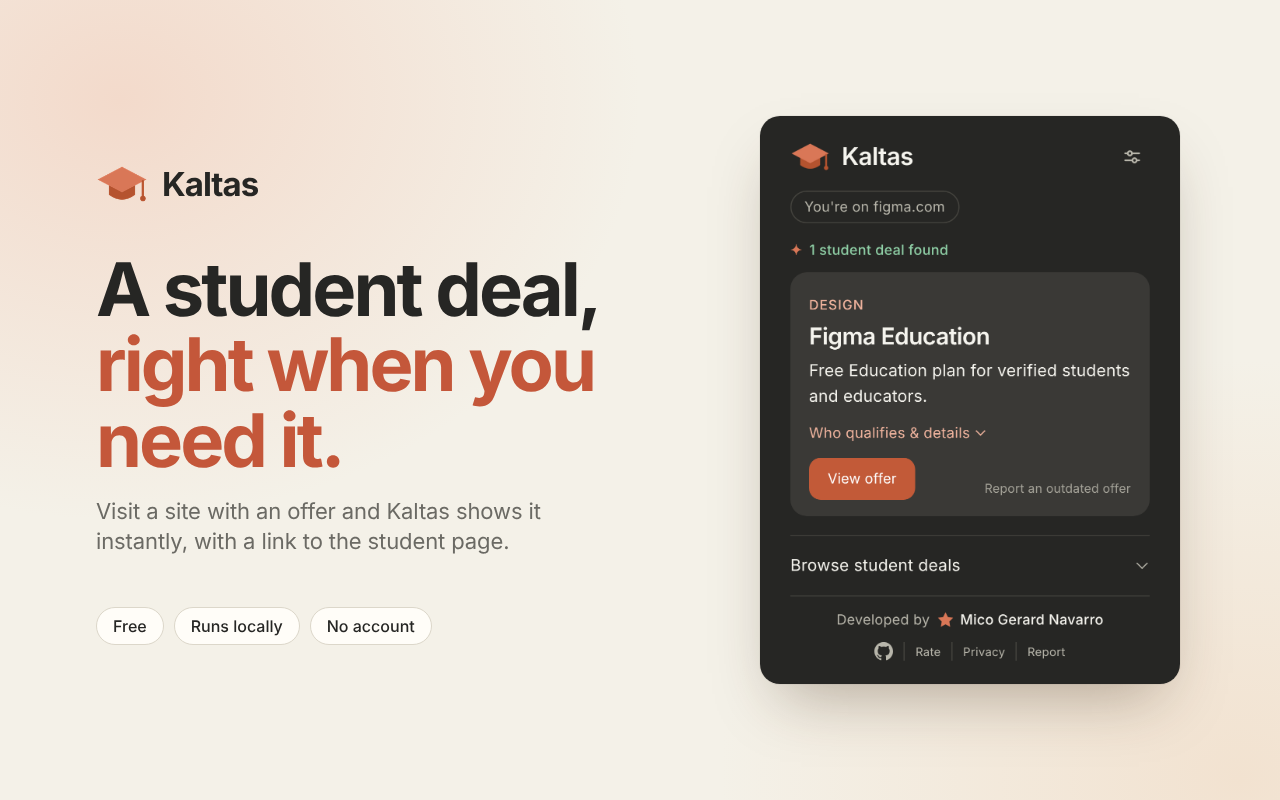
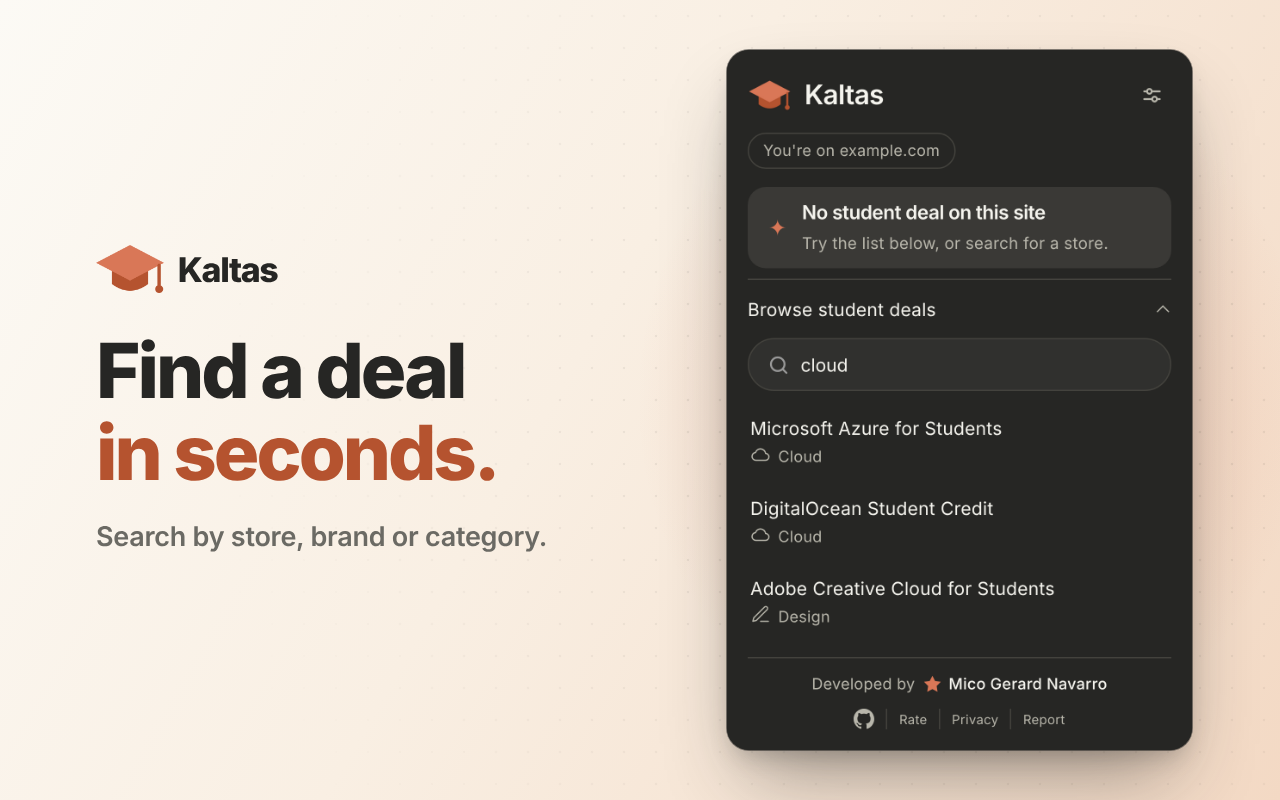
chore: update kaltas screenshots

diff --git a/index.html b/index.html
@@ -45,9 +45,9 @@
       <article class="item reveal">
         <div class="frame  carousel" role="group" aria-roledescription="carousel" aria-label="Kaltas screenshots">
 <div class="slides" tabindex="0" aria-label="Kaltas screenshots. Use the left and right arrow keys to browse.">
-<div class="slide"><img src="/images/projects/kaltas-1.png" width="1280" height="800" alt="Kaltas popup on a site with no student deal, with the Browse student deals list open."></div>
-<div class="slide"><img src="/images/projects/kaltas-2.png" width="1280" height="800" loading="lazy" alt="Kaltas popup on a site with no student deal, searching the Browse student deals list for design."></div>
-<div class="slide"><img src="/images/projects/kaltas-3.png" width="1280" height="800" loading="lazy" alt="Kaltas popup on figma.com showing the Figma Education student deal with a View offer button."></div>
+<div class="slide"><img src="/images/projects/kaltas-1.png" width="1280" height="800" alt="Kaltas popup on github.com showing the GitHub Student Developer Pack deal with a View offer button."></div>
+<div class="slide"><img src="/images/projects/kaltas-2.png" width="1280" height="800" loading="lazy" alt="Kaltas popup on a site with no student deal, with the Browse student deals list open."></div>
+<div class="slide"><img src="/images/projects/kaltas-3.png" width="1280" height="800" loading="lazy" alt="Kaltas popup searching the Browse student deals list for cloud and showing the matching deals."></div>
 </div>
 <button class="car-btn prev" type="button" aria-label="Previous screenshot"><svg viewBox="0 0 24 24" fill="none" stroke="currentColor" stroke-width="2" stroke-linecap="round" stroke-linejoin="round" aria-hidden="true"><path d="M15 18l-6-6 6-6"/></svg></button>
 <button class="car-btn next" type="button" aria-label="Next screenshot"><svg viewBox="0 0 24 24" fill="none" stroke="currentColor" stroke-width="2" stroke-linecap="round" stroke-linejoin="round" aria-hidden="true"><path d="M9 18l6-6-6-6"/></svg></button>
